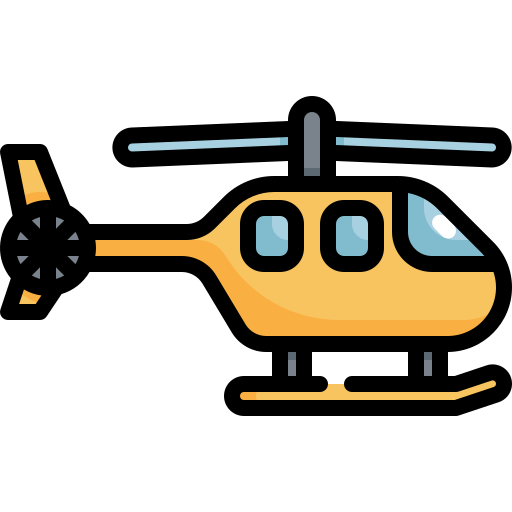
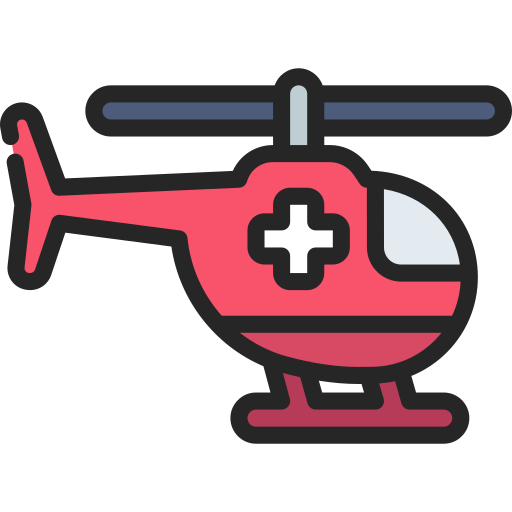
Changed png and updated URL

diff --git a/index.html b/index.html
@@ -197,7 +197,7 @@
         "type": "simple",
         "symbol": {
           "type": "picture-marker",
-          "url": "https://tlargaespada.github.io/AGOL/outline_local_airport_black_24dp.png",
+          "url": "https://tlargaespada.github.io/AGOL/helicopter.png",
           "width": "18px",
           "height": "18px"
         }
